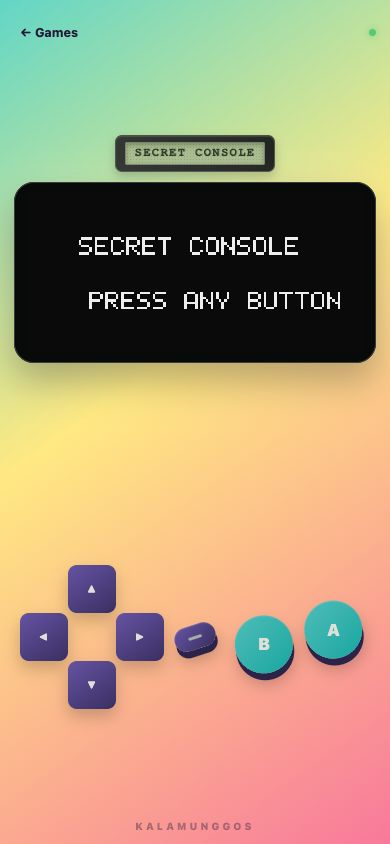
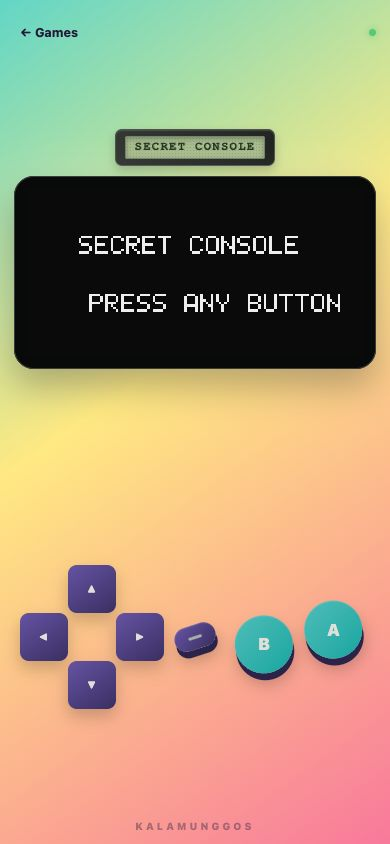
Refine Kala OS screen presentation

diff --git a/src/main.ts b/src/main.ts
@@ -7,6 +7,7 @@ import { nextSkin, skins } from "./skins";
 const root = document.querySelector<HTMLDivElement>("#app")!;
 if (!root) throw new Error("Missing app root");
 
+const kalamunggosVersion = "0.1.0";
 let settings = loadSettings();
 let activeGame: WasmGame | undefined;
 let activeDefinition: GameDefinition | undefined;
@@ -32,35 +33,37 @@ root.innerHTML = `
             <div class="title-display-window"><span class="title-display-text"></span></div>
           </div>
           <div class="screen-bezel">
-            <canvas class="game-screen" width="128" height="64" aria-label="Game display" hidden></canvas>
-            <section class="screen-ui game-library" aria-labelledby="library-title">
-              <div class="firmware-heading">
-                <p>Kala UI</p>
-                <h1 id="library-title">Game select</h1>
-              </div>
-              <div class="game-list">
-                ${games.map((game, index) => `<button class="game-card${index === 0 ? " is-selected" : ""}" data-game="${game.id}" aria-current="${index === 0 ? "true" : "false"}"><span class="selection-cursor" aria-hidden="true">▶</span><strong>${game.displayName}</strong></button>`).join("")}
-              </div>
-              <p class="control-hint">D-PAD SELECT&nbsp;&nbsp; A PLAY</p>
-            </section>
-            <section class="screen-ui system-menu" hidden aria-labelledby="menu-title">
-              <div class="menu-heading">
-                <div><h2 id="menu-title">Kala UI</h2><span>Paused</span></div>
-                <div class="page-controls"><button type="button" data-page="-1" aria-label="Previous settings page">◀</button><strong class="menu-page"></strong><button type="button" data-page="1" aria-label="Next settings page">▶</button></div>
-              </div>
-              <div class="menu-actions">
-                <button data-action="resume">Resume</button>
-                <button data-action="games">Change Game</button>
-                <button data-action="skin">Change Skin <span class="skin-name"></span></button>
-                <button data-action="sound">Sound <span class="sound-state"></span></button>
-                <button data-action="vibration">Vibration <span class="vibration-state"></span></button>
-                <button data-action="title">Title Display <span class="title-state"></span></button>
-                <button data-action="restart">Restart Game</button>
-                <button data-action="about">About</button>
-              </div>
-              <p class="control-hint">▲▼ SELECT&nbsp;&nbsp; A OK&nbsp;&nbsp; B BACK</p>
-              <section class="about" hidden></section>
-            </section>
+            <div class="screen-surface">
+              <canvas class="game-screen" width="128" height="64" aria-label="Game display" hidden></canvas>
+              <section class="screen-ui game-library" aria-labelledby="library-title">
+                <div class="firmware-heading">
+                  <p>Kala OS <span>Kalamunggos v${kalamunggosVersion}</span></p>
+                  <h1 id="library-title">Game select</h1>
+                </div>
+                <div class="game-list">
+                  ${games.map((game, index) => `<button class="game-card${index === 0 ? " is-selected" : ""}" data-game="${game.id}" aria-current="${index === 0 ? "true" : "false"}"><span class="selection-cursor" aria-hidden="true">▶</span><strong>${game.displayName}</strong></button>`).join("")}
+                </div>
+                <p class="control-hint">D-PAD SELECT&nbsp;&nbsp; A PLAY</p>
+              </section>
+              <section class="screen-ui system-menu" hidden aria-labelledby="menu-title">
+                <div class="menu-heading">
+                  <div><h2 id="menu-title">Kala OS</h2><span>Kalamunggos v${kalamunggosVersion}</span><em>Paused</em></div>
+                  <div class="page-controls"><button type="button" data-page="-1" aria-label="Previous settings page">◀</button><strong class="menu-page"></strong><button type="button" data-page="1" aria-label="Next settings page">▶</button></div>
+                </div>
+                <div class="menu-actions">
+                  <button data-action="resume">Resume</button>
+                  <button data-action="games">Change Game</button>
+                  <button data-action="skin">Change Skin <span class="skin-name"></span></button>
+                  <button data-action="sound">Sound <span class="sound-state"></span></button>
+                  <button data-action="vibration">Vibration <span class="vibration-state"></span></button>
+                  <button data-action="title">Title Display <span class="title-state"></span></button>
+                  <button data-action="restart">Restart Game</button>
+                  <button data-action="about">About</button>
+                </div>
+                <p class="control-hint">▲▼ SELECT&nbsp;&nbsp; A OK&nbsp;&nbsp; B BACK</p>
+                <section class="about" hidden></section>
+              </section>
+            </div>
           </div>
         </div>
         <div class="controls" aria-label="Game controls">
@@ -347,7 +350,7 @@ menu.addEventListener("click", (event) => {
       fetch("/games/build-metadata.json")
         .then((response) => response.json())
         .then((metadata: { builtAt: string; games: Array<{ displayName: string; commit: string }> }) => {
-          about.innerHTML = `<button class="about-close" type="button" aria-label="Close about screen">×</button><p>Kalamunggos 0.1.0</p>${metadata.games.map((game) => `<p>${game.displayName}<br><code>${game.commit.slice(0, 12)}</code></p>`).join("")}<p>Built ${new Date(metadata.builtAt).toLocaleString()}</p>`;
+          about.innerHTML = `<button class="about-close" type="button" aria-label="Close about screen">×</button><p>Kalamunggos ${kalamunggosVersion}</p>${metadata.games.map((game) => `<p>${game.displayName}<br><code>${game.commit.slice(0, 12)}</code></p>`).join("")}<p>Built ${new Date(metadata.builtAt).toLocaleString()}</p>`;
         })
         .catch(() => { about.textContent = "Build metadata unavailable."; });
     }

diff --git a/src/styles.css b/src/styles.css
@@ -61,6 +61,7 @@ button { font: inherit; }
   background: linear-gradient(160deg, #343833, #171a17);
   box-shadow: inset 0 1px 1px rgba(255,255,255,.13), 0 5px 10px rgba(0,0,0,.2);
 }
+.title-display[hidden] { display: block !important; visibility: hidden; }
 .title-display-window {
   position: relative;
   overflow: hidden;
@@ -89,19 +90,18 @@ button { font: inherit; }
 @keyframes title-scroll { from { transform: translateX(0); } to { transform: translateX(-100%); } }
 
 .screen-bezel {
-  position: relative;
   overflow: hidden;
   width: 100%;
-  aspect-ratio: 2;
   padding: clamp(10px, 3vw, 20px);
   border-radius: 20px;
   background: #080909;
   box-shadow: inset 0 0 0 1px #3a3c3b, 0 18px 36px rgba(0, 0, 0, .28), 0 0 45px var(--screen-glow);
 }
+.screen-surface { position: relative; width: 100%; aspect-ratio: 2; }
 .game-screen { display: block; width: 100%; height: 100%; background: #090a09; image-rendering: pixelated; image-rendering: crisp-edges; }
 .screen-ui {
   position: absolute;
-  inset: clamp(10px, 3vw, 20px);
+  inset: 0;
   overflow: hidden;
   color: #dcebcf;
   background-color: #10150f;
@@ -116,6 +116,7 @@ button { font: inherit; }
 .game-library { display: grid; grid-template-rows: auto 1fr auto; gap: clamp(5px, 1.4vw, 10px); padding: clamp(8px, 2.4vw, 18px); }
 .firmware-heading { display: flex; align-items: baseline; justify-content: space-between; gap: 10px; border-bottom: 2px solid currentColor; }
 .firmware-heading p { margin: 0 0 3px; font-size: clamp(.55rem, 1.7vw, .75rem); letter-spacing: .12em; opacity: .72; }
+.firmware-heading p span { margin-left: .6em; font-size: .72em; letter-spacing: .04em; white-space: nowrap; }
 .firmware-heading h1 { margin: 0 0 3px; font-size: clamp(.9rem, 3.5vw, 1.5rem); line-height: 1; letter-spacing: -.07em; }
 .game-list { display: grid; gap: clamp(3px, .9vw, 7px); align-content: center; }
 .game-card {
@@ -142,6 +143,7 @@ button { font: inherit; }
 .menu-heading { display: flex; align-items: center; justify-content: space-between; gap: 8px; padding-bottom: 3px; border-bottom: 2px solid currentColor; }
 .menu-heading > div:first-child { display: flex; align-items: baseline; gap: clamp(6px, 1.5vw, 12px); }
 .menu-heading span { font-size: clamp(.5rem, 1.4vw, .66rem); letter-spacing: .1em; opacity: .62; }
+.menu-heading em { font-size: clamp(.46rem, 1.25vw, .6rem); font-style: normal; letter-spacing: .08em; opacity: .5; }
 .menu-heading h2 { margin: 0; font-size: clamp(.85rem, 2.8vw, 1.25rem); line-height: 1; letter-spacing: -.06em; }
 .page-controls { display: flex; align-items: center; gap: 6px; }
 .page-controls button { padding: 0 2px; border: 0; color: inherit; background: transparent; font-size: clamp(.55rem, 1.5vw, .7rem); cursor: pointer; }
@@ -188,6 +190,11 @@ button { font: inherit; }
 .action-buttons button { width: 66px; height: 66px; border-radius: 50%; font-weight: 900; font-size: 1.05rem; background: linear-gradient(145deg, color-mix(in srgb, var(--accent) 75%, white), var(--accent)); }
 .action-buttons span { display: block; transform: rotate(12deg); }
 .brand-mark { margin: 6px 0 0; text-align: center; font-size: .63rem; font-weight: 900; letter-spacing: .3em; opacity: .38; }
+
+@media (min-width: 700px) and (min-height: 701px) and (max-height: 800px) {
+  .console-body { grid-template-rows: minmax(0, 1fr) minmax(190px, 32vh); gap: 8px; }
+  .display-stack { width: min(100%, 560px); }
+}
 
 @media (orientation: landscape) and (max-height: 700px) {
   .handheld { padding-block: max(env(safe-area-inset-top), 8px) max(env(safe-area-inset-bottom), 8px); }
